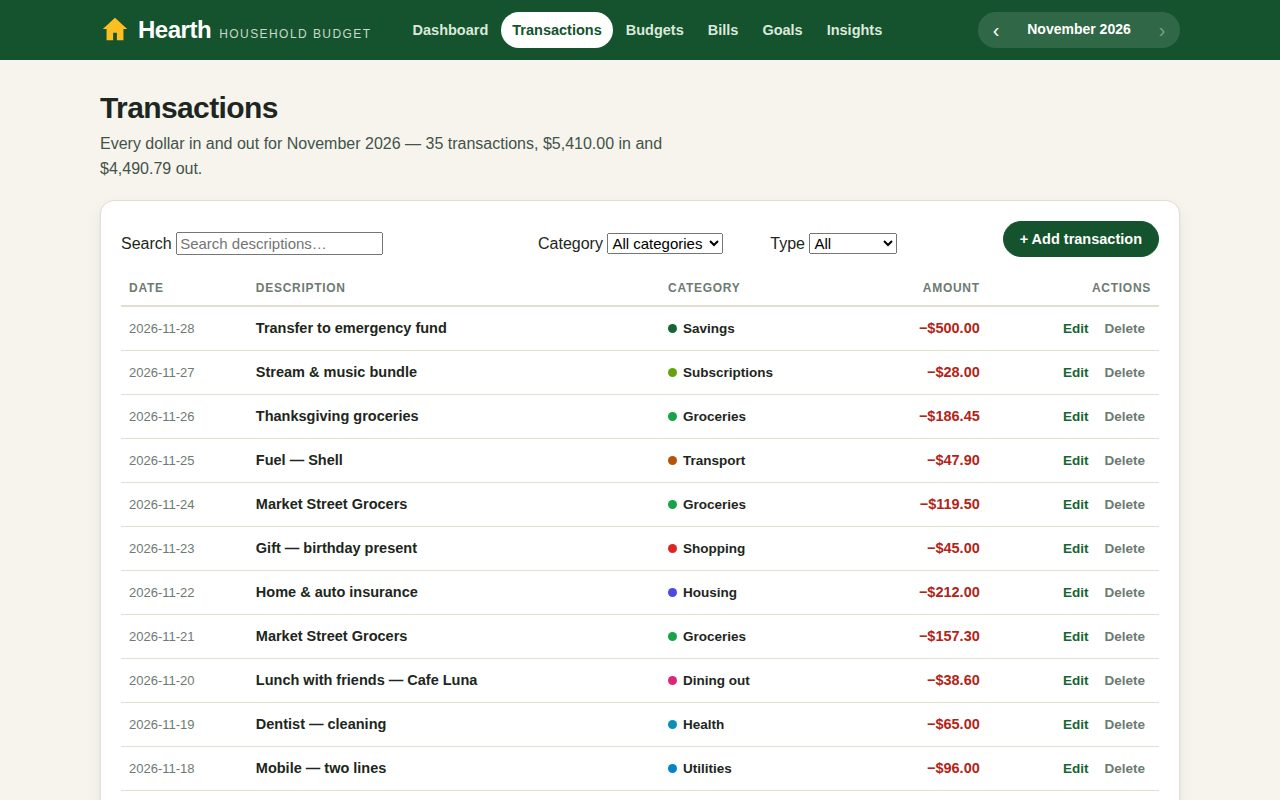
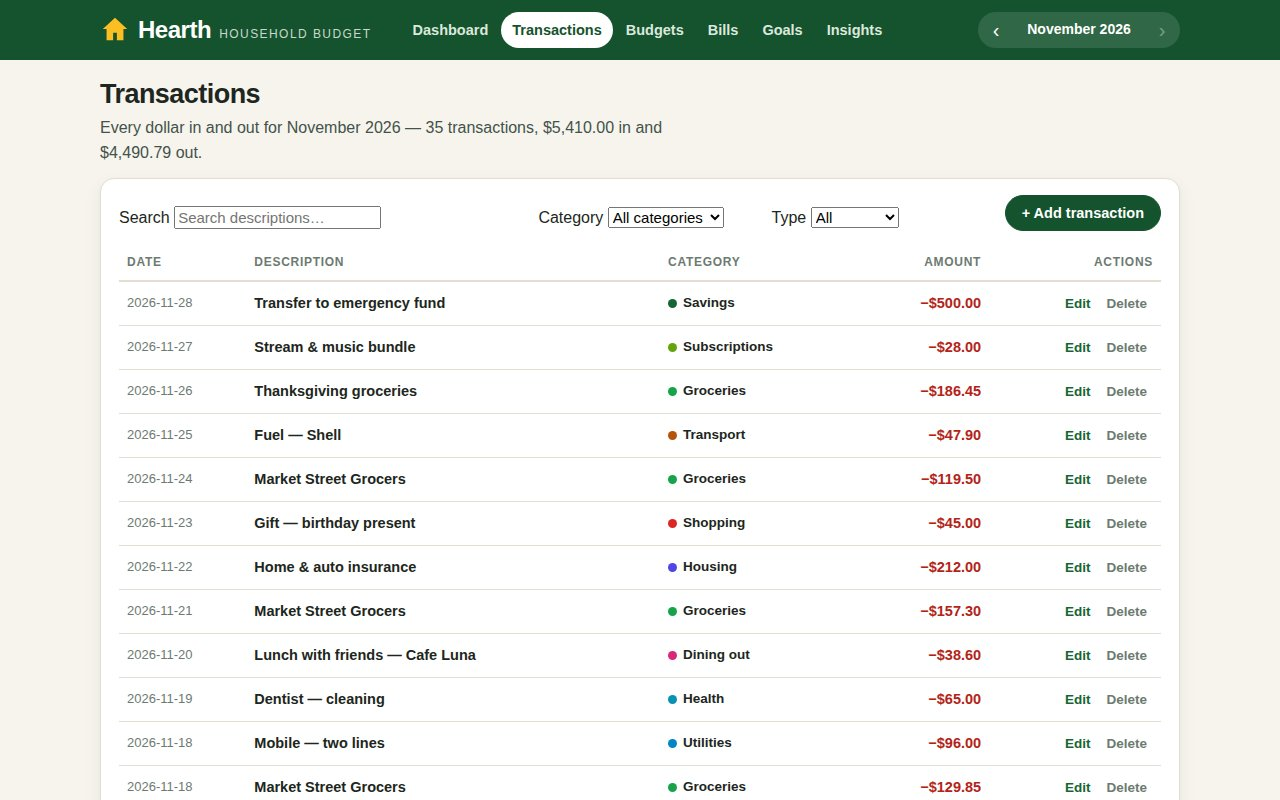
Replace 7 files: style.css, app.js, charts.js and screenshots (#1)
* Replace app/css/style.css

* Replace app/js/app.js and app/js/charts.js

* Replace screenshots/1-dashboard.jpg, 2-transactions.jpg, 3-budgets.jpg and 4-goals-phone.jpg

diff --git a/app/js/app.js b/app/js/app.js
@@ -90,12 +90,21 @@ function navActive(route) {
   document.getElementById("month-next").disabled = currentMonth === MONTHS[MONTHS.length - 1];
 }
 
-function statCard(label, value, note, tone) {
+function statCard(label, value, note, tone, delta) {
   return `<div class="stat ${tone || ""}">
     <div class="label">${label}</div>
     <div class="value money">${value}</div>
     <div class="note">${note}</div>
+    ${delta ? `<div class="delta ${delta.dir}">${delta.text}</div>` : ""}
   </div>`;
+}
+
+function deltaVs(current, previous, invert) {
+  if (!previous) return null;
+  const pct = Math.round(((current - previous) / previous) * 100);
+  if (pct === 0) return { dir: "", text: "Same as last month" };
+  const good = invert ? pct < 0 : pct > 0;
+  return { dir: good ? "up" : "down", text: `${pct > 0 ? "▲" : "▼"} ${Math.abs(pct)}% vs last month` };
 }
 
 function renderDashboard() {
@@ -120,6 +129,18 @@ function renderDashboard() {
     ? `<p class="callout"><strong>Heads up:</strong> ${over.map((c) => esc(c.name)).join(", ")} ${over.length === 1 ? "is" : "are"} over budget this month. <a href="#/budgets">Review budgets</a></p>`
     : `<p class="callout good"><strong>On track:</strong> every category is inside its budget for ${esc(monthName(currentMonth))}. Nice work.</p>`;
 
+  const prevMonth = MONTHS[Math.max(0, MONTHS.indexOf(currentMonth) - 1)];
+  const prevTotals = monthTotals(prevMonth);
+  const hasPrev = prevMonth !== currentMonth;
+
+  const sixMonths = MONTHS.map((m) => {
+    const t = monthTotals(m);
+    return { label: monthShort(m), income: t.income, spent: t.spent };
+  });
+  const sixIn = sixMonths.reduce((s, m) => s + m.income, 0);
+  const sixOut = sixMonths.reduce((s, m) => s + m.spent, 0);
+  const bestMonth = sixMonths.slice().sort((a, b) => (b.income - b.spent) - (a.income - a.spent))[0];
+
   document.getElementById("view").innerHTML = `
     <div class="page-head">
       <h1>${esc(monthName(currentMonth))} at a glance</h1>
@@ -127,31 +148,32 @@ function renderDashboard() {
     </div>
     ${alert}
     <div class="stats">
-      ${statCard("Income", fmtMoney(totals.income), "Salary + freelance", "good")}
-      ${statCard("Spent", fmtMoney(totals.spent), "Across " + Object.keys(spent).length + " categories", totals.spent > totals.income ? "bad" : "")}
+      ${statCard("Income", fmtMoney(totals.income), "Salary + freelance", "good", hasPrev ? deltaVs(totals.income, prevTotals.income, false) : null)}
+      ${statCard("Spent", fmtMoney(totals.spent), "Across " + Object.keys(spent).length + " categories", totals.spent > totals.income ? "bad" : "", hasPrev ? deltaVs(totals.spent, prevTotals.spent, true) : null)}
       ${statCard("Left to spend", fmtMoney(totals.income - totals.spent), savingsRate + "% of income kept", totals.income - totals.spent < 0 ? "bad" : "good")}
       ${statCard("Budget used", Math.round((budgetSpent / budgetTotal) * 100) + "%", fmtMoney(budgetSpent) + " of " + fmtMoney(budgetTotal) + " planned", over.length ? "warn" : "")}
     </div>
     <div class="grid grid-main">
       <div class="stack">
-        <section class="card">
-          <div class="card-head"><h2>Where the money went</h2><a href="#/transactions">All transactions &rarr;</a></div>
-          <p class="sub">Spending by category, ${esc(monthName(currentMonth))}.</p>
-          <div class="grid grid-2">
+        <div class="grid grid-2 grid-start">
+          <section class="card">
+            <div class="card-head"><h2>Where the money went</h2><a href="#/transactions">All transactions &rarr;</a></div>
+            <p class="sub">Spending by category, ${esc(monthName(currentMonth))}.</p>
             <div class="chart-wrap">
               <canvas id="donut" aria-label="Donut chart of spending by category" role="img"></canvas>
               <div class="chart-center"><span class="big">${fmtMoney(totalSpent)}</span><span class="small">spent</span></div>
             </div>
-            <ul class="legend">
+            <ul class="legend two-col">
               ${topSlices.map((s) => `<li><span class="dot" style="background:${s.color}"></span>${esc(s.label)}<span class="amt money">${fmtMoney(s.value)}</span></li>`).join("")}
             </ul>
-          </div>
-        </section>
-        <section class="card">
-          <div class="card-head"><h2>Income vs spending</h2><a href="#/insights">Insights &rarr;</a></div>
-          <p class="sub">Six months at a glance — the household spends less than it earns every month.</p>
-          <div class="chart-wrap"><canvas id="bars" aria-label="Bar chart of income versus spending over six months" role="img"></canvas></div>
-        </section>
+          </section>
+          <section class="card">
+            <div class="card-head"><h2>Income vs spending</h2><a href="#/insights">Insights &rarr;</a></div>
+            <p class="sub">Six months at a glance — the household spends less than it earns every month.</p>
+            <div class="chart-wrap"><canvas id="bars" aria-label="Bar chart of income versus spending over six months" role="img"></canvas></div>
+            <p class="sub" style="margin:10px 0 0">Six months: ${fmtMoney(sixIn)} in, ${fmtMoney(sixOut)} out — ${fmtMoney(sixIn - sixOut)} kept. Best month: ${esc(bestMonth.label)}, ${fmtMoney(bestMonth.income - bestMonth.spent)} kept.</p>
+          </section>
+        </div>
       </div>
       <div class="stack">
         <section class="card">

diff --git a/app/css/style.css b/app/css/style.css
@@ -64,31 +64,35 @@ input, select { font-family: inherit; font-size: 15px; }
 #month-label { font-size: 14px; font-weight: 700; min-width: 128px; text-align: center; }
 
 /* Layout */
-main.wrap { padding-top: 26px; padding-bottom: 40px; }
-.page-head { margin: 4px 0 18px; }
-.page-head h1 { font-size: 30px; line-height: 1.2; letter-spacing: -0.02em; margin: 0 0 6px; }
+main.wrap { padding-top: 16px; padding-bottom: 28px; }
+.page-head { margin: 2px 0 12px; }
+.page-head h1 { font-size: 27px; line-height: 1.2; letter-spacing: -0.02em; margin: 0 0 6px; }
 .page-head p { margin: 0; color: var(--ink-soft); max-width: 68ch; }
-.grid { display: grid; gap: 16px; }
+.grid { display: grid; gap: 14px; }
+.grid-start { align-items: start; }
 .grid-2 { grid-template-columns: 1fr 1fr; }
 .grid-3 { grid-template-columns: repeat(3, 1fr); }
 .grid-main { grid-template-columns: 1.9fr 1fr; align-items: start; }
 .card {
   background: var(--surface); border: 1px solid var(--line); border-radius: var(--radius);
-  box-shadow: var(--shadow); padding: 20px;
+  box-shadow: var(--shadow); padding: 16px 18px;
 }
 .card h2 { font-size: 17px; margin: 0 0 4px; letter-spacing: -0.01em; }
 .card h3 { font-size: 15px; margin: 0 0 8px; }
 .card .sub { color: var(--muted); font-size: 13.5px; margin: 0 0 12px; }
 .card-head { display: flex; align-items: baseline; justify-content: space-between; gap: 12px; }
 .card-head a { font-size: 13.5px; font-weight: 700; text-decoration: none; white-space: nowrap; }
-.stack { display: grid; gap: 16px; }
+.stack { display: grid; gap: 14px; }
 
 /* Stat cards */
-.stats { display: grid; grid-template-columns: repeat(4, 1fr); gap: 16px; margin-bottom: 16px; }
-.stat { background: var(--surface); border: 1px solid var(--line); border-radius: var(--radius); box-shadow: var(--shadow); padding: 16px 18px; }
+.stats { display: grid; grid-template-columns: repeat(4, 1fr); gap: 14px; margin-bottom: 12px; }
+.stat { background: var(--surface); border: 1px solid var(--line); border-radius: var(--radius); box-shadow: var(--shadow); padding: 13px 16px; }
 .stat .label { font-size: 13px; font-weight: 700; color: var(--muted); text-transform: uppercase; letter-spacing: 0.07em; }
-.stat .value { font-size: 28px; font-weight: 800; letter-spacing: -0.02em; margin-top: 4px; }
+.stat .value { font-size: 26px; font-weight: 800; letter-spacing: -0.02em; margin-top: 4px; }
 .stat .note { font-size: 13px; color: var(--muted); margin-top: 2px; }
+.stat .delta { font-size: 12.5px; font-weight: 700; margin-top: 1px; }
+.stat .delta.up { color: var(--green); }
+.stat .delta.down { color: var(--red); }
 .stat.good .value { color: var(--green); }
 .stat.warn .value { color: var(--amber); }
 .stat.bad .value { color: var(--red); }
@@ -111,7 +115,7 @@ main.wrap { padding-top: 26px; padding-bottom: 40px; }
 .bar > span { display: block; height: 100%; background: var(--green); border-radius: 999px; }
 .bar.over > span { background: var(--red); }
 .bar.near > span { background: var(--amber); }
-.budget-row { padding: 12px 0; border-top: 1px solid var(--line); }
+.budget-row { padding: 9px 0; border-top: 1px solid var(--line); }
 .budget-row:first-of-type { border-top: 0; padding-top: 2px; }
 .budget-row .row-top { display: flex; justify-content: space-between; gap: 10px; font-weight: 700; font-size: 14.5px; }
 .budget-row .row-top .dot { display: inline-block; width: 10px; height: 10px; border-radius: 50%; margin-right: 7px; vertical-align: 1px; }
@@ -175,6 +179,8 @@ form label input:focus, form label select:focus { outline: 2px solid var(--green
 .insight p { margin: 0; font-size: 14.5px; }
 .insight p b { font-weight: 800; }
 .legend { list-style: none; margin: 12px 0 0; padding: 0; display: grid; gap: 6px; font-size: 13.5px; }
+.legend.two-col { grid-template-columns: 1fr 1fr; column-gap: 14px; }
+.legend.two-col .amt { font-size: 12.5px; }
 .legend li { display: flex; align-items: center; gap: 8px; }
 .legend .dot { width: 10px; height: 10px; border-radius: 3px; flex: none; }
 .legend .amt { margin-left: auto; font-weight: 700; }
@@ -187,7 +193,7 @@ form label input:focus, form label select:focus { outline: 2px solid var(--green
 .chart-center .big { font-size: 24px; font-weight: 800; letter-spacing: -0.02em; }
 .chart-center .small { font-size: 12px; color: var(--muted); text-transform: uppercase; letter-spacing: 0.08em; }
 .empty { color: var(--muted); font-size: 14.5px; padding: 18px 0; text-align: center; }
-.callout { background: var(--amber-soft); border: 1px solid #f3d9ae; border-radius: 10px; padding: 12px 14px; font-size: 14px; margin: 0 0 14px; }
+.callout { background: var(--amber-soft); border: 1px solid #f3d9ae; border-radius: 10px; padding: 10px 14px; font-size: 14px; margin: 0 0 12px; }
 .callout.good { background: var(--green-soft); border-color: #bcd8c2; }
 
 /* Footer */

diff --git a/app/js/charts.js b/app/js/charts.js
@@ -18,14 +18,16 @@ function moneyShort(value) {
 }
 
 // Donut: shares of spending by category. slices = [{label, value, color}]
+// Kept compact (210px) so the dashboard's trend chart below it still shows
+// inside a 1280x800 viewport.
 export function drawDonut(canvas, slices, total) {
   const width = canvas.clientWidth || 320;
-  const height = 260;
+  const height = 210;
   const ctx = setupCanvas(canvas, width, height);
   const cx = width / 2;
   const cy = height / 2;
-  const outer = 104;
-  const inner = 66;
+  const outer = 86;
+  const inner = 54;
   let start = -Math.PI / 2;
   for (const slice of slices) {
     const angle = (slice.value / total) * Math.PI * 2;
@@ -47,9 +49,10 @@ export function drawDonut(canvas, slices, total) {
 }
 
 // Bars: one bar per month, income vs spending. months = [{label, income, spent}]
+// Kept compact (200px) so the card fits the first viewport on the dashboard.
 export function drawBars(canvas, months) {
   const width = canvas.clientWidth || 640;
-  const height = 240;
+  const height = 200;
   const ctx = setupCanvas(canvas, width, height);
   const padLeft = 44;
   const padBottom = 26;
